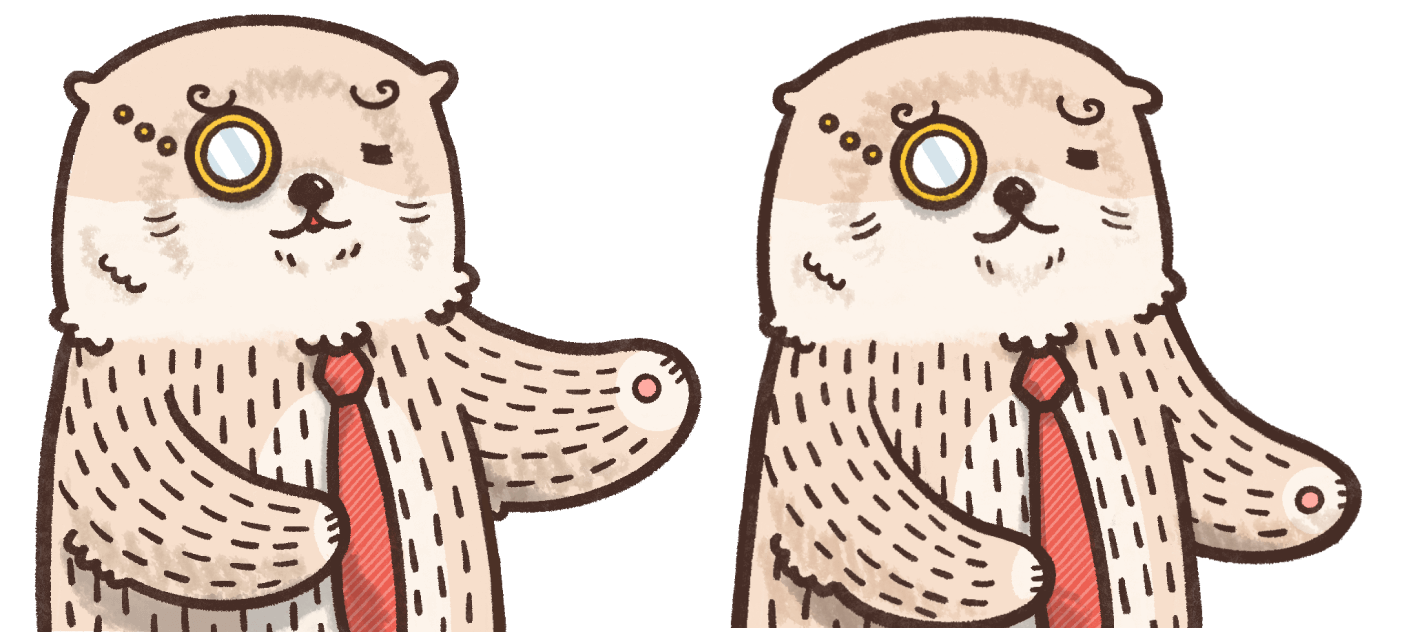
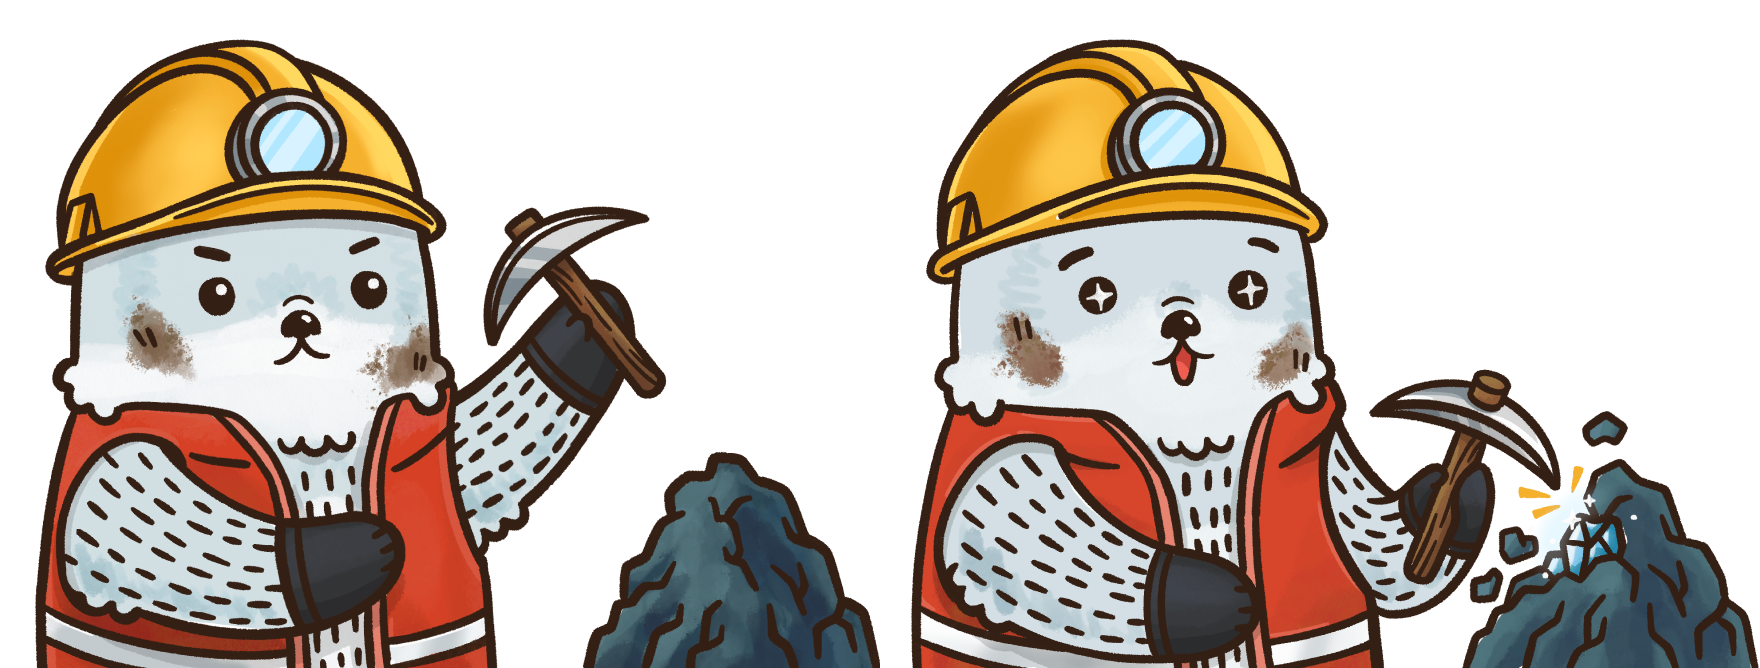
feat: mine images & animations

diff --git a/src/views/mine/StakeSuccessPopup/index.tsx b/src/views/mine/StakeSuccessPopup/index.tsx
@@ -1,11 +1,13 @@
 import CloseIcon from 'assets/ui/close_icon.svg'
 import Fullscreen from 'components/Fullscreen'
 import { useTranslation } from 'next-i18next'
-import styled from 'styled-components/macro'
+import styled, { keyframes } from 'styled-components/macro'
 import { Display3, Headline } from 'styles/typography'
-import Gif from './stake.gif'
+import Image from 'next/image'
+import { trim } from 'helpers/trim'
+import Otto from './mine_otto.png'
 
-const StyledStakeSuccessPopup = styled.div`
+const StyledMineSuccessPopup = styled.div`
   padding: 45px;
   display: flex;
   flex-direction: column;
@@ -24,14 +26,9 @@ const StyledHeadline = styled(Headline).attrs({ as: 'h2' })``
 
 const StyledTitle = styled(Display3)``
 
-const StyledGif = styled.img.attrs({ src: Gif.src })`
-  width: 200px;
-  position: relative;
-`
-
 const StyledDesc = styled(Headline)`
   > span {
-    color: ${({ theme }) => theme.colors.clamPink};
+    color: ${({ theme }) => theme.colors.crownYellow};
   }
 `
 
@@ -41,26 +38,39 @@ const StyledCloseIcon = styled.button`
   right: 44px;
 `
 
+const Animation = keyframes`
+  0%   { background-position: left top }
+  50%  { background-position: right top }
+`
+
+const StyledOtter = styled.div`
+  width: 260px;
+  height: 210px;
+  animation: ${Animation} 2000ms steps(1) infinite;
+  background: left top / 200% 100% url(${Otto.src});
+  pointer-events: none;
+`
+
 interface Props {
-  clamAmount: string
+  amount: string
   onClose: () => void
 }
 
-export default function StakeSuccessPopup({ clamAmount, onClose }: Props) {
-  const { t } = useTranslation('', { keyPrefix: 'bank.stake_popup' })
+export default function MineSuccessPopup({ amount, onClose }: Props) {
+  const { t } = useTranslation('', { keyPrefix: 'mine.success_popup' })
   return (
     <Fullscreen width="unset">
-      <StyledStakeSuccessPopup>
+      <StyledMineSuccessPopup>
         <StyledHeadline>{t('headline')}</StyledHeadline>
         <StyledTitle>{t('title')}</StyledTitle>
-        <StyledGif />
+        <StyledOtter />
         <StyledDesc>
-          {t('desc')} <span>{clamAmount}</span> PEARL!
+          {t('desc')} <span>{trim(amount, 2)}</span> USDC!
         </StyledDesc>
         <StyledCloseIcon onClick={onClose}>
-          <img src={CloseIcon.src} alt="close" />
+          <Image src={CloseIcon.src} alt="close" width={16} height={16} />
         </StyledCloseIcon>
-      </StyledStakeSuccessPopup>
+      </StyledMineSuccessPopup>
     </Fullscreen>
   )
 }

diff --git a/src/views/mine/MineDialog.tsx b/src/views/mine/MineDialog.tsx
@@ -288,12 +288,7 @@ export default function MineDialog({ className }: Props) {
           {t('mine_btn')}
         </StyledButton>
         <Caption>{t('extra')}</Caption>
-        {mineState.state === 'Success' && (
-          <StakeSuccessPopup
-            clamAmount={trim(utils.formatUnits(utils.parseUnits(clamAmount, 9), 9), 4)}
-            onClose={resetMine}
-          />
-        )}
+        {mineState.state === 'Success' && <StakeSuccessPopup amount={usdAmount} onClose={resetMine} />}
         <StyledGashaponTicket src={GashaponTicketEn.src} />
       </StyledBody>
     </StyledMineDialog>

diff --git a/src/views/mine/index.tsx b/src/views/mine/index.tsx
@@ -55,11 +55,11 @@ const Animation = keyframes`
 
 const StyledOtter = styled.div`
   position: absolute;
-  width: 352px;
-  height: 314px;
+  width: 440px;
+  height: 334px;
   left: 50%;
   bottom: 0;
-  z-index: 10;
+  z-index: 1;
   transform: translate(-600px);
   animation: ${Animation} 2000ms steps(1) infinite;
   background: left top / 200% 100% url(${Otto.src});
@@ -69,8 +69,8 @@ const StyledOtter = styled.div`
     position: absolute;
     left: 0;
     transform: unset;
-    width: 210px;
-    height: 188px;
+    width: 293px;
+    height: 222px;
   }
 `
 
